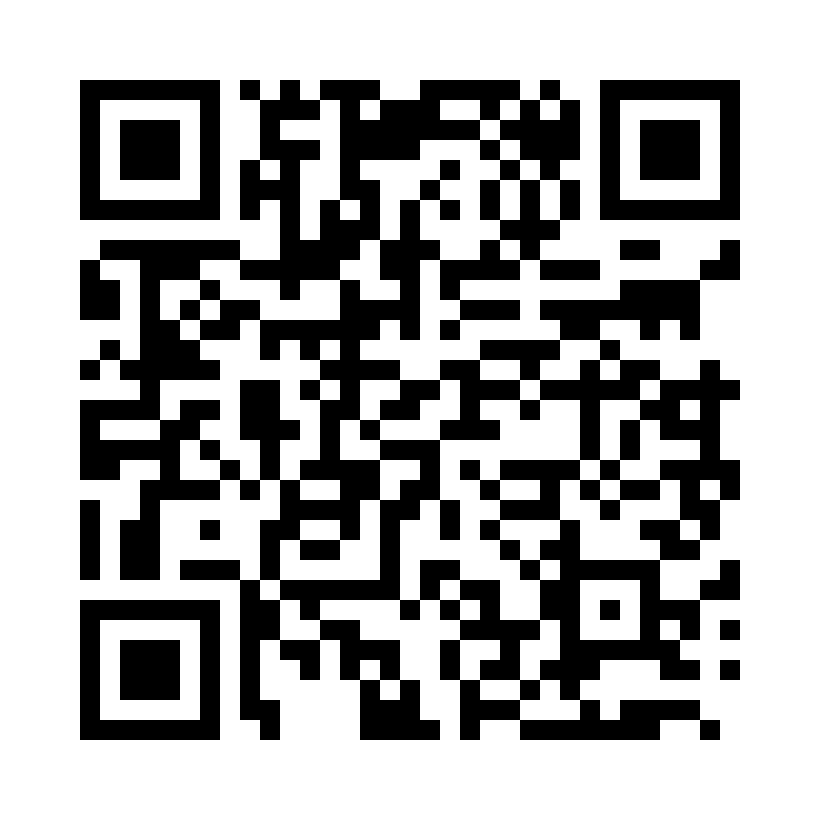
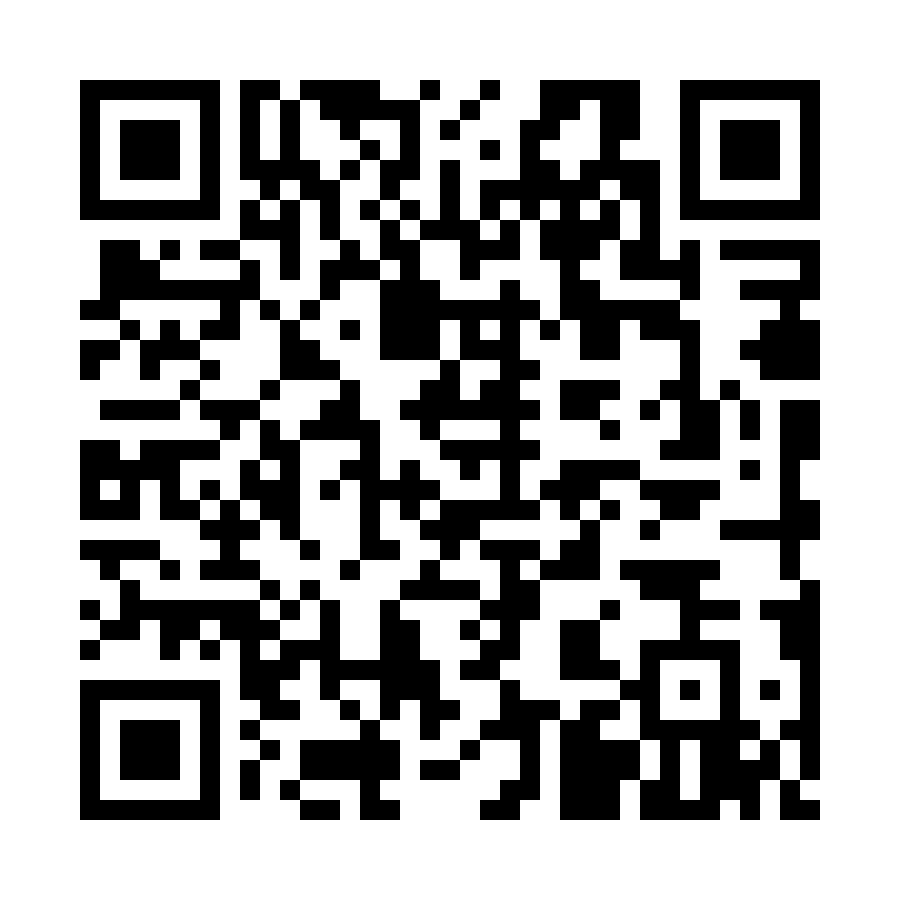
changed dev tunnel and commented out method

diff --git a/MyHome/Logic.cs b/MyHome/Logic.cs
@@ -136,7 +136,7 @@ namespace MyHome
         {
             //TODO:
             // This is used for test on local environment, new Url every time visual studio started. 
-            Url absoluteUrl = new Url("https://3w7qd4gh-7211.euw.devtunnels.ms");
+            Url absoluteUrl = new Url("https://8qg2bw5b-7211.euw.devtunnels.ms");
             //
             Url qrCodeUrl = new Url($"{absoluteUrl}/mobileDeviceInfo/{userID}/{deviceID}");
             string generatedQrCodeLink = qrCodeUrl.ToString();

diff --git a/MyHome/Program.cs b/MyHome/Program.cs
@@ -43,6 +43,6 @@ DeviceProfile foundedDevice = Logic.GetDeviceInfoByID(searchID, currentUser);
 Console.WriteLine(foundedDevice.ToString());//creating Qr code for device 
 string idNumber = userDevices[0].DeviceID.ToString();
 
-Logic.CreateQRCodeForDevice(idNumber, saveQRCodeLink);
+//Logic.CreateQRCodeForDevice(idNumber, saveQRCodeLink);
 // saved updated userDevices profile
 //Data.SaveUsersListToXml(usersList, path);
